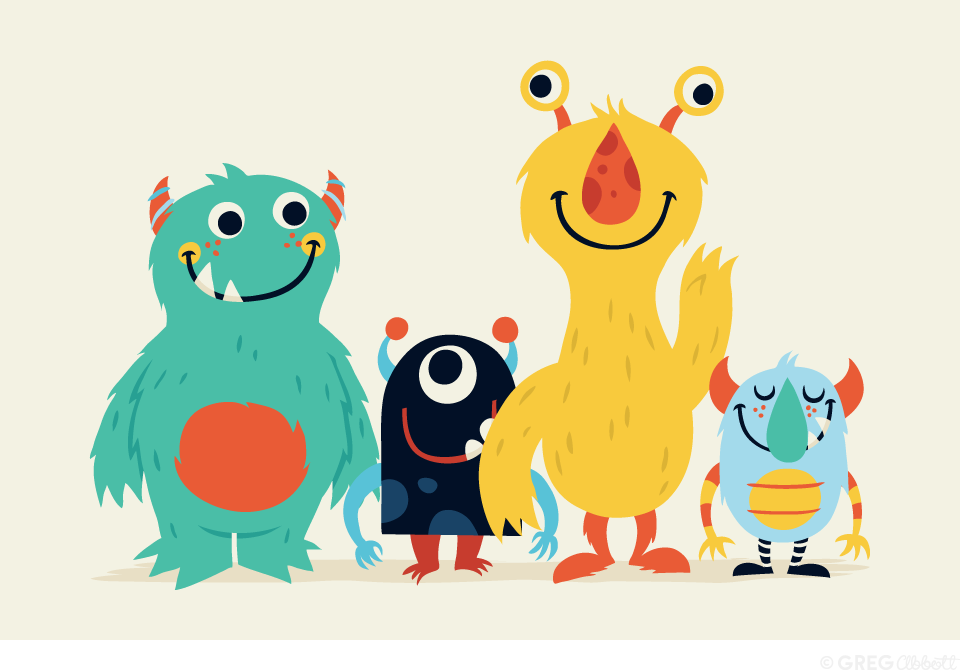
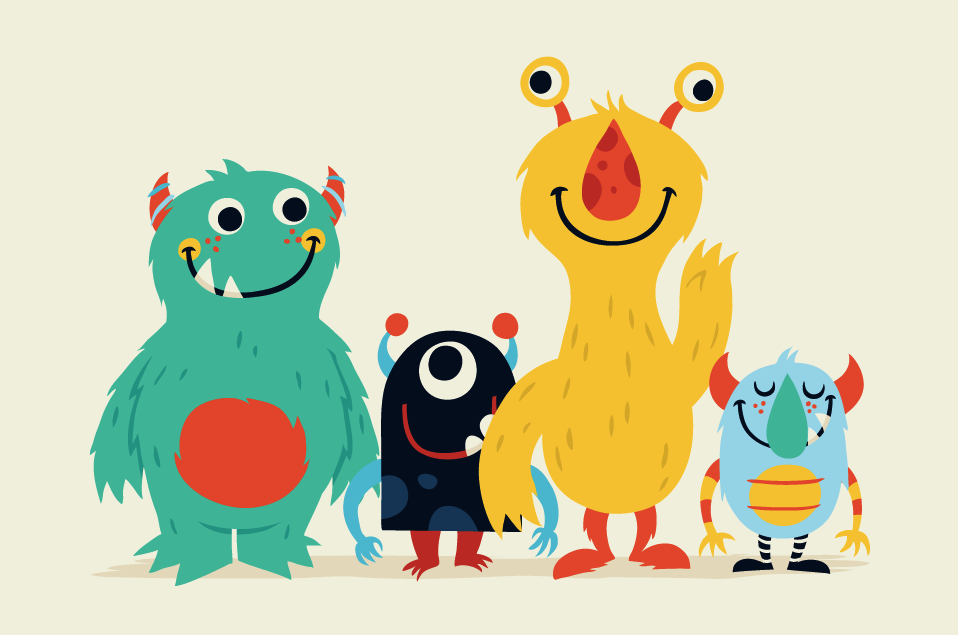
add polaroid effect

diff --git a/css/main.css b/css/main.css
@@ -1,6 +1,18 @@
  * {
     box-sizing: border-box;
 }
+.clearfix:before,
+.clearfix:after {
+    content:"";
+    display:table;
+}
+.clearfix:after {
+    clear:both;
+}
+.clearfix {
+    zoom:1;
+}
+
 #loading {
     position: absolute;
     left: 50%;
@@ -50,7 +62,7 @@ p {
 
 #sheet {
     position: relative;
-    background: #F3F2E3;
+    background: #F0EFDC;
     width: 105%;
     top: -40px;
     margin-left: -5%;
@@ -93,6 +105,9 @@ p {
     font-size: 16px;
     color: #FFF;
 }
+    #footer a {
+        color: #FFF;
+    }
 h1 {
     color: rgb(248,190,70);
     font-weight: 600;
@@ -113,10 +128,80 @@ h3 {
     font-family: 'Gochi Hand', cursive;
 }
 .thumbnail {
-    width: 150px;
-    height: 150px;
-    margin: 0 15px 15px 0;
-    background-size: cover;
-    display: inline-block;
-    border: 1px solid #333;
+    position: relative;
+    /*clear: left;*/
+    width: 170px;
+    height: 230px;
+    padding: 10px;
+    margin: 0 30px 30px 0;
+    display: block;
+    float: left;
+    background: #eee6d8;
+    background: -webkit-linear-gradient(top, #ede1c9, #fef8e2 20%, #f2ebde 60%);
+    background: -moz-linear-gradient(top, #ede1c9, #fef8e2 20%, #f2ebde 60%);
+    background: -o-linear-gradient(top, #ede1c9, #fef8e2 20%, #f2ebde 60%);
+    background: -ms-linear-gradient(top, #ede1c9, #fef8e2 20%, #f2ebde 60%);
+    background: linear-gradient(top, #ede1c9, #fef8e2 20%, #f2ebde 60%);
+    -webkit-box-shadow: 4px 4px 8px -4px rgba(0, 0, 0, .75);
+    -moz-box-shadow: 4px 4px 8px -4px rgba(0, 0, 0, .75);
+    box-shadow: 4px 4px 8px -4px rgba(0, 0, 0, .75);
+
+    -webkit-transform:rotate(-1deg);
+    -moz-transform: rotate(-1deg);
+    -o-transform: rotate(-1deg);
+    -ms-transform: rotate(-1deg);
+    transform: rotate(-1deg);
+    -webkit-backface-visibility:hidden;
+    cursor: pointer;
+}
+
+.thumbnail:nth-child(3n+3) {
+    -webkit-transform:rotate(2deg);
+    -moz-transform: rotate(2deg);
+    -o-transform: rotate(2deg);
+    -ms-transform: rotate(2deg);
+    transform: rotate(2deg);
+
+    -webkit-box-shadow: -4px 4px 8px -4px rgba(0, 0, 0, .75);
+    -moz-box-shadow: -4px 4px 8px -4px rgba(0, 0, 0, .75);
+    box-shadow: -4px 4px 8px -4px rgba(0, 0, 0, .75);
+}
+
+
+    .thumbnail div {
+        width: 150px;
+        height: 150px;
+        background-size: cover;
+    }
+    .thumbnail figcaption {
+        font-family: 'Gochi Hand', cursive;
+        font-size: 16px;
+        padding: 5px 0;
+        text-align: center;
+    }
+
+.thumbnail:before { 
+    content: '';
+    display: block;
+    position: absolute;
+    left:-15px;
+    top: -10px;
+    width: 75px;
+    height: 25px;
+    background-color: rgba(222,220,198,0.7);
+    -webkit-transform: rotate(-12deg);
+    -moz-transform: rotate(-12deg);
+    -o-transform: rotate(-12deg);
+    -ms-transform: rotate(-12deg);
+}
+
+.thumbnail:nth-child(even):before {
+    left: 120px;
+    top: -15px;
+    width: 55px;
+    height: 25px;
+    -webkit-transform: rotate(12deg);
+    -moz-transform: rotate(12deg);
+    -o-transform: rotate(12deg);
+    -ms-transform: rotate(12deg);
 }

diff --git a/index.html b/index.html
@@ -15,26 +15,27 @@
             <div id="container">
                 <div id="telegram">
                     <h1>i'm <span>Swann</span></h1>
-                    <!-- <span class="date">28 oct 2013</span> -->
                     <p>
-                        Arrived safely in Berlin -(STOP)- 3.2kg and 50cm -(STOP)- my parents, Carine & Frantz, are proud of me -(STOP)- Ready to explore the world! -(STOP)-
+                        Lorem ipsum dolor sit amet, consectetur adipisicing elit, sed do eiusmod
+                        tempor incididunt ut labore et dolore magna aliqua. Ut enim ad minim veniam,
+                        quis nostrud exercitation ullamco laboris nisi ut aliquip ex ea commodo
+                        consequat. Duis aute irure dolor in reprehenderit in voluptate velit esse
+                        cillum dolore eu fugiat nulla pariatur. Excepteur sint occaecat cupidatat non
+                        proident, sunt in culpa qui officia deserunt mollit anim id est laborum.
                     </p>
-                    <p>
-                        Bien arrive a Berlin -(STOP)- 3.2kg and 50cm -(STOP)- mes parents, Carine & Frantz, sont fiers de moi -(STOP)- pret a decouvrir le monde ! -(STOP)-
-                    </P>
                     <p class="signature">
                         Swann G.
                     </p>
                 </div>
                 <div id="galery">
                     <h3>galery</h3>
-                    <p>
+                    <p class="clearfix">
                     </p>
                 </div>
             </div>
         </div>
         <div id="footer">
-            imswann.com
+            <a href="http://www.gregabbott.co/">illustration &copy; Greg Abbott</a> - imswann.com 2013
         </div>
     </div>
 </body>
@@ -61,11 +62,19 @@
                 var $container = $("#galery p:first");
 
                 data.items.forEach(function(item) {
+                    var date = new Date(item.date_taken);
+                    var dateString = date.getDate() + '/' + (date.getMonth() + 1) + '/' + date.getFullYear();
+
                     if (item.media && item.media.m) {
-                        $('<div>').attr({
-                            'style': 'background-image: url(' + item.media.m + ')',
+                        $('<figure>').attr({
                             'class': 'thumbnail'
-                        }).appendTo($container);
+                        })
+                        .append($("<div>").attr('style', 'background-image: url(' + item.media.m + ')'))
+                        .append($("<figcaption>").text(dateString + ' - ' + item.title))
+                        .appendTo($container)
+                        .click(function() {
+                            document.location = item.link;
+                        });
                     }
                 });
             }
